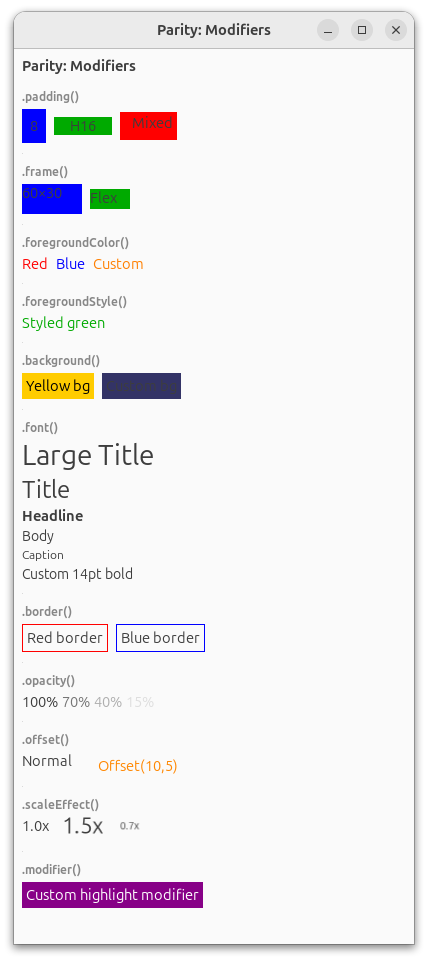
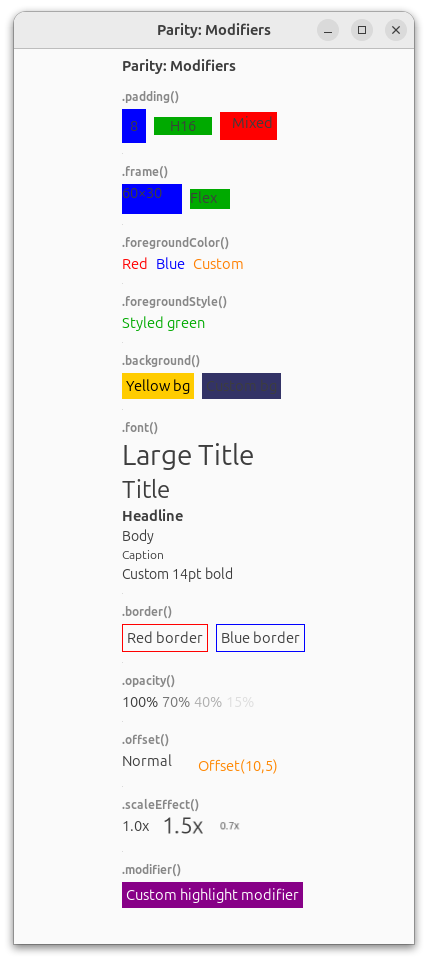
Fix 3 layout issues, update comparison report and all screenshots
1. FrameView: propagate child hexpand/vexpand to wrapper when frame
   doesn't constrain that axis. Fixes Spacer inside .frame(height:)
   collapsing to zero width.

2. Window root centering: center non-expanding root content in window
   (halign/valign CENTER + expand). Fixes HelloWorld text top-left.

3. Navigation title extraction: recursive walk (depth 20) through
   modifier chain. Fixes title not showing when .navigationTitle()
   is followed by multiple .navigationDestination() calls.

Updated screenshot comparison report ratings.
Recaptured all 14 Linux screenshots.

diff --git a/Sources/Backend/GTK4/Rendering/GTKNavigation.swift b/Sources/Backend/GTK4/Rendering/GTKNavigation.swift
@@ -245,7 +245,14 @@ func getCurrentNavigationContext() -> GTKNavigationContext? {
 // MARK: - Title extraction
 
 /// Extract navigation title from a view via NavigationTitled conformance.
+/// Walks the view tree recursively so .navigationTitle() works regardless
+/// of modifier ordering or nesting depth.
 func gtkExtractTitle<V: View>(from view: V) -> String {
+    return gtkExtractTitleAny(from: view)
+}
+
+private func gtkExtractTitleAny(from view: Any, depth: Int = 0) -> String {
+    guard depth < 20 else { return "" }
     if let titled = view as? NavigationTitled {
         return titled.navigationTitle
     }
@@ -253,6 +260,12 @@ func gtkExtractTitle<V: View>(from view: V) -> String {
     for child in mirror.children {
         if let titled = child.value as? NavigationTitled {
             return titled.navigationTitle
+        }
+    }
+    for child in mirror.children {
+        if child.value is any View {
+            let result = gtkExtractTitleAny(from: child.value, depth: depth + 1)
+            if !result.isEmpty { return result }
         }
     }
     return ""

diff --git a/Sources/Backend/GTK4/Rendering/GTK4Backend.swift b/Sources/Backend/GTK4/Rendering/GTK4Backend.swift
@@ -53,6 +53,19 @@ extension WindowGroup: GTKWindowRenderable {
         if let titlebarWidget = findTitlebar(in: contentWidget) {
             gtk_window_set_titlebar(winPtr, titlebarWidget)
         }
+
+        // If the root content doesn't expand, center it in the window
+        // (matches SwiftUI where root views fill the proposed size and
+        // content like Text is centered by default).
+        if gtk_widget_get_hexpand(contentWidget) == 0 {
+            gtk_widget_set_halign(contentWidget, GTK_ALIGN_CENTER)
+            gtk_widget_set_hexpand(contentWidget, 1)
+        }
+        if gtk_widget_get_vexpand(contentWidget) == 0 {
+            gtk_widget_set_valign(contentWidget, GTK_ALIGN_CENTER)
+            gtk_widget_set_vexpand(contentWidget, 1)
+        }
+
         gtk_window_set_child(winPtr, contentWidget)
         gtk_window_present(winPtr)
     }
